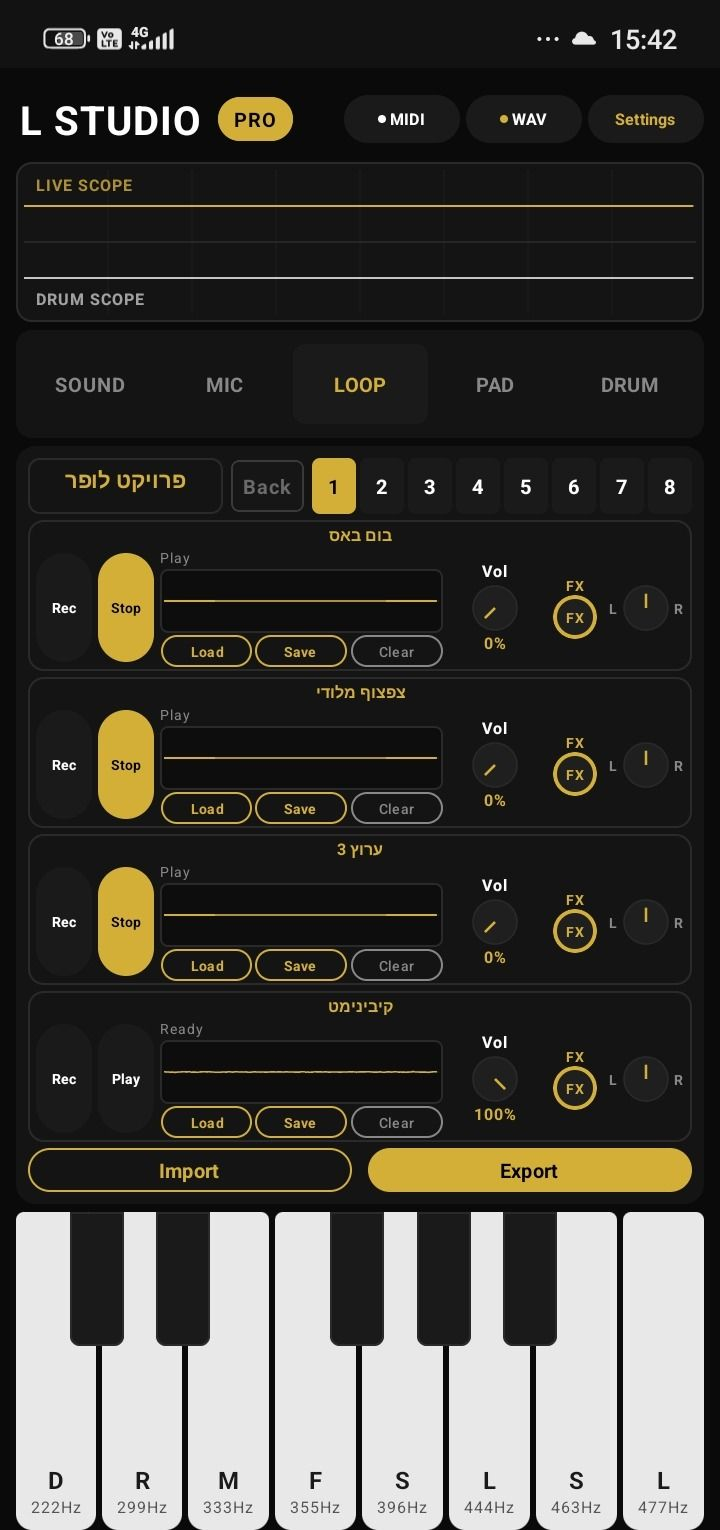
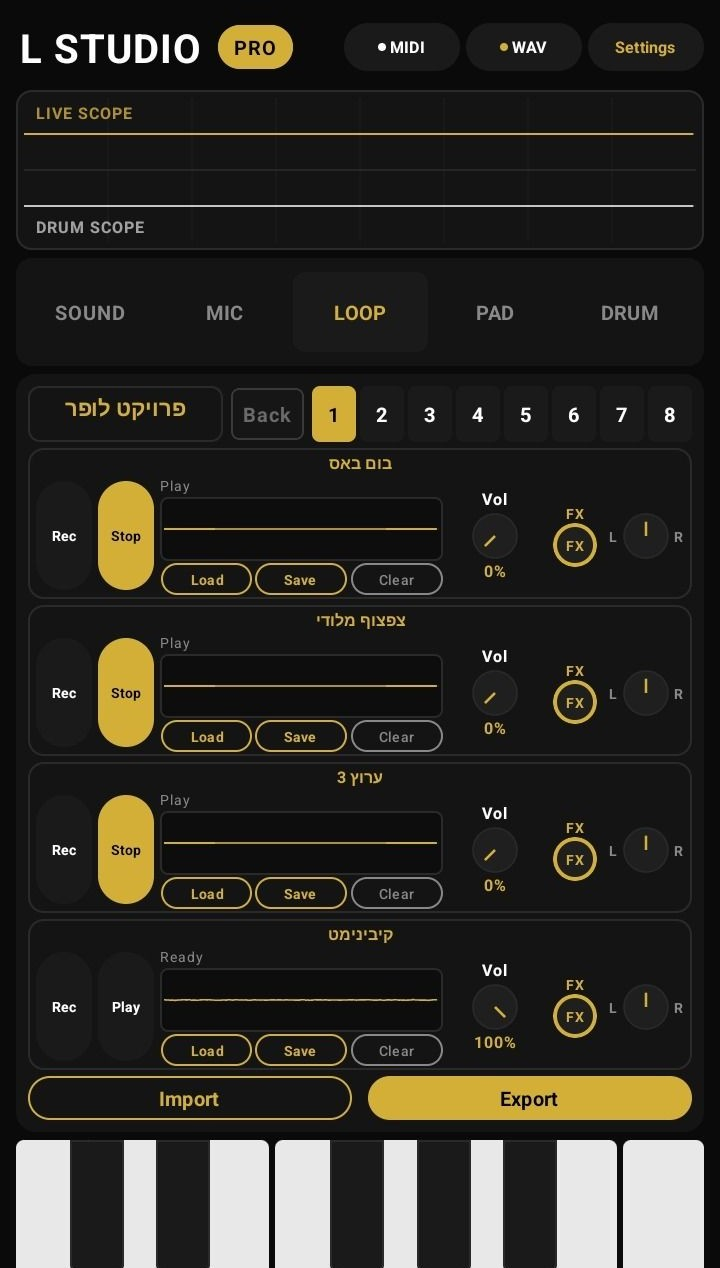
feat: update Exclusive, Early Access, and guide cards
Point the updates cards at Exclusive, the home Early Access form, and the guide. Crop phone status bars off the stills, and keep kit downloads off the public site.

diff --git a/client/src/pages/Updates.tsx b/client/src/pages/Updates.tsx
@@ -29,6 +29,25 @@ function webpUrl(path: string) {
   return assetUrl(path.replace(/\.jpe?g$/i, ".webp"));
 }
 
+/** Natural size of each still, so the reserved box matches the file after cropping. */
+const STILL_SIZE: Record<string, { width: number; height: number }> = {
+  "/assets/updates/drum-fx.jpg": { width: 720, height: 1348 },
+  "/assets/updates/mic-fx.jpg": { width: 720, height: 1348 },
+  "/assets/updates/looper-back.jpg": { width: 720, height: 1268 },
+  "/assets/updates/looper-fx.jpg": { width: 720, height: 1268 },
+  "/assets/updates/lyrics.jpg": { width: 720, height: 1344 },
+  "/assets/updates/user-guide-style-random.jpg": { width: 640, height: 857 },
+  "/assets/updates/exclusive-packs-poster.jpg": { width: 1024, height: 1536 },
+};
+
+function stillSize(src: string) {
+  return STILL_SIZE[src] ?? { width: 720, height: 1348 };
+}
+
+function hashHref(href: string) {
+  return href.startsWith("#") || href.startsWith("/#");
+}
+
 const emptyChrome = (language: Language): ChromeCopy => ({
   back: language === "he" ? "חזרה לאתר" : language === "ru" ? "Вернуться на сайт" : language === "ar" ? "العودة إلى الموقع" : "Back to site",
   home: language === "he" ? "דף הבית" : language === "ru" ? "Главная" : language === "ar" ? "الرئيسية" : "Home",
@@ -139,6 +158,13 @@ export default function Updates() {
                         </div>
                         <p>{item.summary}</p>
                         {item.detail ? <p className="updates-detail">{item.detail}</p> : null}
+                        {item.href && item.cta ? (
+                          hashHref(item.href) ? (
+                            <a className="button button--small button--light updates-cta" href={item.href}>{item.cta}</a>
+                          ) : (
+                            <Link className="button button--small button--light updates-cta" href={item.href}>{item.cta}</Link>
+                          )
+                        ) : null}
                         {item.dateLabel ? <p className="updates-date">{item.dateLabel}</p> : null}
                       </div>
                       {shots.length ? (
@@ -147,7 +173,7 @@ export default function Updates() {
                             <figure className="updates-shot" key={shot.src}>
                               <picture>
                                 {/\.jpe?g$/i.test(shot.src) ? <source srcSet={webpUrl(shot.src)} type="image/webp" /> : null}
-                                <img src={assetUrl(shot.src)} alt={shot.alt} width={720} height={1530} loading="lazy" decoding="async" />
+                                <img src={assetUrl(shot.src)} alt={shot.alt} width={stillSize(shot.src).width} height={stillSize(shot.src).height} loading="lazy" decoding="async" />
                               </picture>
                             </figure>
                           ))}

diff --git a/client/src/index.css b/client/src/index.css
@@ -836,6 +836,7 @@ html[dir="rtl"] .faq-heading, html[dir="rtl"] .faq-trigger, html[dir="rtl"] .faq
 .updates-card p { margin: 12px 0 0; max-width: 760px; color: #aaa8a2; font-size: 16px; line-height: 1.75; }
 .updates-card--media .updates-card-copy p { max-width: none; }
 .updates-detail { color: #b4b1a9; }
+.updates-cta { margin-top: 16px; }
 .updates-date { color: var(--muted); font: 12px var(--mono); letter-spacing: .04em; }
 .updates-card-shots { display: flex; flex-wrap: wrap; gap: 12px; justify-content: flex-end; align-items: flex-start; }
 .updates-shot { margin: 0; flex: 0 1 200px; width: 200px; max-width: 100%; border: 1px solid rgba(227,197,101,.35); border-radius: 10px; background: #0c0c0e; overflow: hidden; }

diff --git a/client/src/lib/updatesCopy.ts b/client/src/lib/updatesCopy.ts
@@ -19,6 +19,10 @@ export type UpdateItem = {
   imageAlt?: string;
   /** Alts in the same order the card shows `image` (first) and then `images`. */
   imageAlts?: string[];
+  /** Optional site path. Shown only together with `cta`. */
+  href?: string;
+  /** Optional link label, in the same language as the card. */
+  cta?: string;
 };
 
 export type UpdateScreenshot = {

diff --git a/CONTENT_EDITING.md b/CONTENT_EDITING.md
@@ -8,7 +8,7 @@ Do not change the JSON punctuation, keys, or braces. Change only the text betwee
 
 ### User guide (`/guide`)
 
-Long guide copy lives under `languages.*.guide` (title, intro, tip labels, and `sections[]`). Keep all four languages in sync when you edit a section. Optional `media` paths are relative to the site root (for example `assets/mic-window.jpg` or `assets/Preset.jpg`). Leave `media` out when there is no real screenshot yet — do not invent images.
+Long guide copy lives under `languages.*.guide` (title, intro, tip labels, and `sections[]`). Keep all four languages in sync when you edit a section. Optional `media` paths are relative to the site root (for example `assets/mic-window.jpg` or `assets/Preset.jpg`). Leave `media` out when there is no real screenshot yet. Do not invent images.
 
 Nav labels for the guide live under `languages.*.nav.guide`.
 
@@ -43,21 +43,26 @@ Keep all four languages in sync. Home Factory Pack uses `languages.*.factoryPack
 
 Purchase copy lives under `languages.*.pro` (same keys in Hebrew, English, Russian, and Arabic). The short label is `languages.*.nav.pro`. The homepage does not show that link while Early Access is the only signup path. Online checkout is paused: `checkoutNote` tells visitors, in all four languages, that purchases are not available on this website right now. Do not name a payment provider in this file, and do not put a download URL or a payment secret here. Optional `commerce.apiBaseUrl` is the Railway origin (no trailing slash) so the GitHub Pages buy page can call checkout when payments return. Leave it empty when the page is served by Railway itself.
 
-
 ### Updates (`/updates`)
 
-Update copy lives under `languages.*.updates`. The same items are the fallback in `client/src/lib/updatesFallback.json`. Keep Hebrew, English, Russian, and Arabic in sync, including alts.
+Update copy lives under `languages.*.updates`. The same items are the fallback in `client/src/lib/updatesFallback.json`. Keep Hebrew, English, Russian, and Arabic in sync, including alts. Keep root `content.json`, `client/public/content.json`, and `client/src/lib/updatesFallback.json` aligned.
 
-A card can show phone screenshots beside the text. Prefer `images`, an array of site-root paths such as `/assets/updates/drum-fx.jpg`. You can also set one `image`, then add more paths in `images`. The card shows `image` first, then any extra `images` that are not already listed. Alts are per language: `imageAlts` is one string per screenshot, in that same order, or use a single `imageAlt`.
+A card can show stills beside the text. Prefer `images`, an array of site-root paths such as `/assets/updates/drum-fx.jpg`. You can also set one `image`, then add more paths in `images`. The card shows `image` first, then any extra `images` that are not already listed. Alts are per language: `imageAlts` is one string per screenshot, in that same order, or use a single `imageAlt`.
 
-Put each still in `assets/updates/` as a `.jpg` and a matching `.webp`, and copy both into `client/public/assets/updates/` so local preview matches the site. The Pages build copies root `assets/` into the site. Show the full screenshot (`object-fit: contain`). Do not crop labels. When the Android system navigation bar is easy to remove, crop it off before export and keep the app UI. Leave `images` off a card that has no screenshot. Do not invent stills.
+Optional `href` and `cta` add a text link under the summary. Set both, in that language, or the card shows neither. `href` is a site path such as `/exclusive` or `/guide`. A home-page hash such as `/#early-access` is a normal link. `cta` is the short label.
+
+Put each still in `assets/updates/` as a `.jpg` and a matching `.webp`, and copy both into `client/public/assets/updates/` so local preview matches the site. The Pages build copies root `assets/` into the site. Show the full still (`object-fit: contain`). Do not crop app titles or control labels. Crop the Android status bar (clock, battery, icons) off phone screenshots, and crop the system navigation bar at the bottom when that does not cut app UI. Leave promotional art intact. Leave `images` off a card that has no still. Do not invent stills.
+
+The site never offers Exclusive kit downloads or ZIP links. Buying L Studio Pro on Google Play unlocks those kits later inside the Android app. This website only describes them.
 
 Current pairings:
 
-- `drum-fx` — `drum-fx.jpg` only (Drum FX, Goa Gate selected).
-- `mic-fx-and-back` — `mic-fx.jpg` (Phone Line) and `looper-back.jpg` (Back on the looper).
-- `studio-workflow-refresh` — `lyrics.jpg` (lyrics teleprompter) and `looper-fx.jpg` (Trance Stack). The summary says the looper now has eight channels. Do not call L Studio a DAW.
-- `exclusive-packs-gallery`, `early-access-play`, and `user-guide-style-random` have no screenshots.
+- `drum-fx`: `drum-fx.jpg` only (Drum FX, Goa Gate selected). Status bar and system navigation are cropped.
+- `mic-fx-and-back`: `mic-fx.jpg` (Phone Line) and `looper-back.jpg` (Back on the looper). Status bar and system navigation are cropped.
+- `studio-workflow-refresh`: `lyrics.jpg` (lyrics teleprompter) and `looper-fx.jpg` (Trance Stack). The summary says the looper now has eight channels. Do not call L Studio a DAW. Status bar and system navigation are cropped.
+- `exclusive-packs-gallery`: status `upcoming`. Still is `exclusive-packs-poster.jpg`, the Exclusive Pro poster (11 kits, Pro unlock). It is promotional art, not a phone shot, so it is not cropped like a status bar. `href` is `/exclusive`. The copy says the site is information only and there is no website download.
+- `early-access-play`: no screenshot. `href` is `/#early-access`. The summary asks visitors to fill the Early Access form on the home page for a Google Play Internal testing spot. It does not promise an APK email or a public APK download.
+- `user-guide-style-random`: `user-guide-style-random.jpg`, the guide Style and Random still with the status bar cropped off. `href` is `/guide`.
 
 ## Images
 
